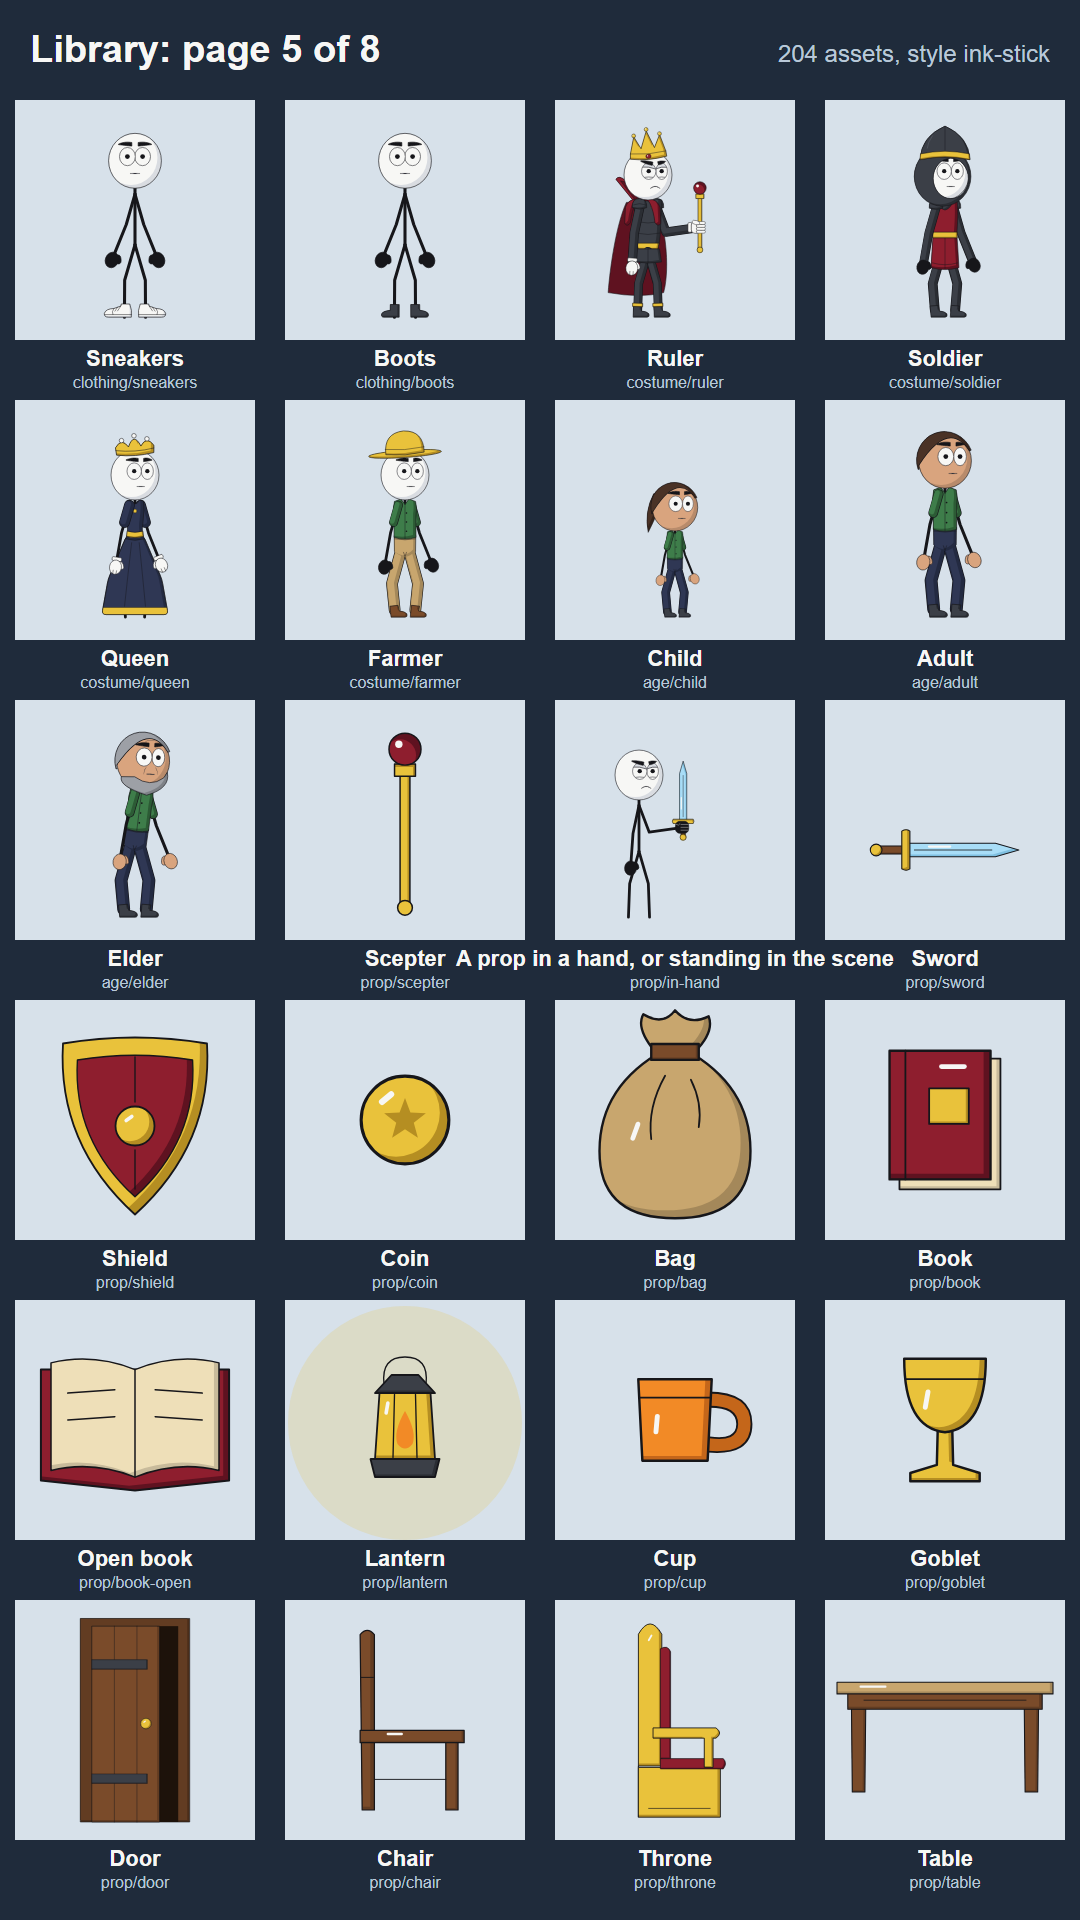
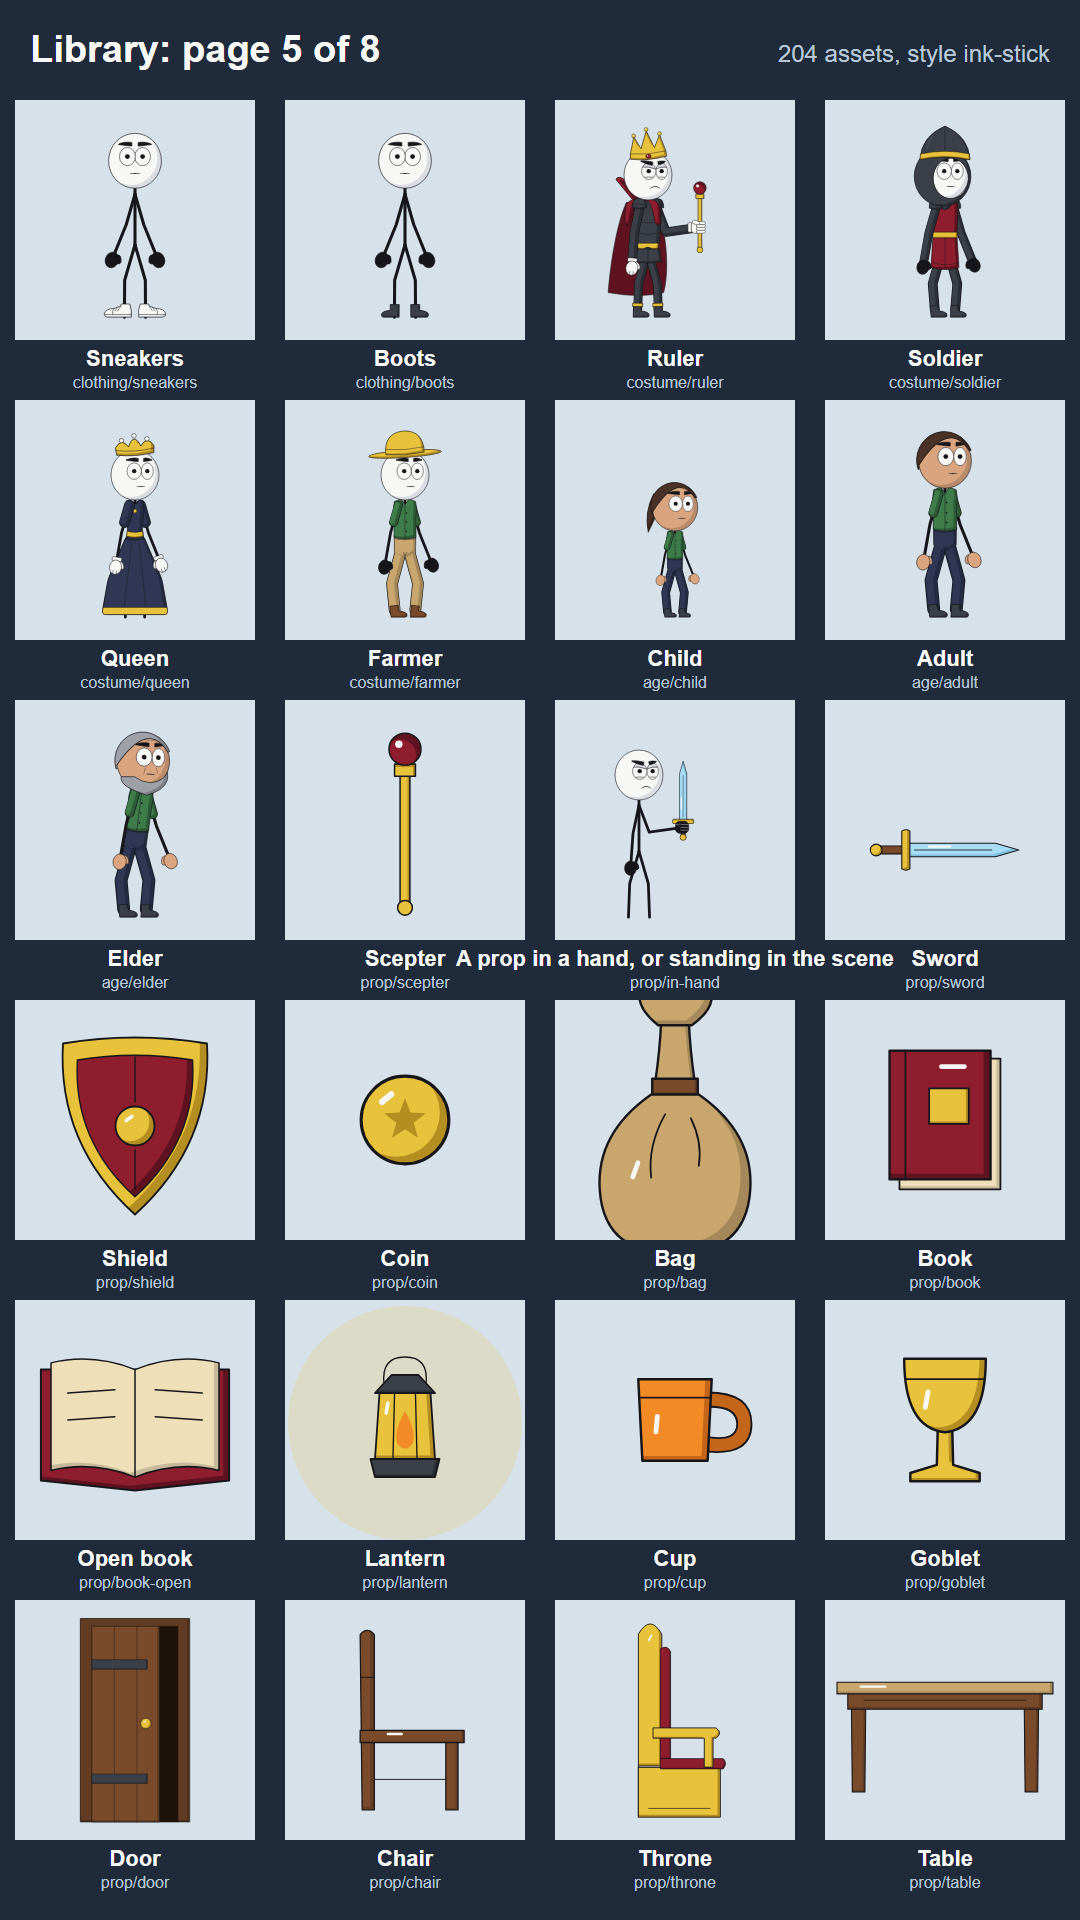
Bag v2: a neck the fist closes round, after Biku's feedback on part 1
The bag's neck was shorter than the fist, so the hand sat in front of the
bag. Longer gathered neck through the fist; sheets, still and catalog
redrawn; part 1 rendered again (v3). Lesson L-0025.

Changed region(s): [[0.55, 0.5, 0.7028, 0.6562]]

diff --git a/engine/src/props/Bag.tsx b/engine/src/props/Bag.tsx
@@ -2,13 +2,17 @@ import { Shaded, lightOffset } from '../wardrobe/Shaded';
 import { Glint, detail, paintOf } from './Hold';
 import type { PropProps } from './Hold';
 
-/** How far the bottom of the bag hangs below its tied neck, in head units. */
-export const BAG_DROP = 0.86;
+/** How far the bottom of the bag hangs below the point it is held by, in head units. */
+export const BAG_DROP = 1.04;
+/** Half the height of the stretch of neck a fist closes round. */
+const GRIP = 0.115;
 
 /**
- * A cloth bag tied at the neck (Style 4): a sack of coins, grain or loot. The tied neck is at
- * the origin and the bag hangs below it. Hold it with InHand how="hang" and a gripping hand,
- * or stand it on the ground with Placed at its bottom (BAG_DROP below the origin).
+ * A cloth bag tied at the neck (Style 4): a sack of coins, grain or loot. The origin is the
+ * middle of its gathered neck, where a hand holds it: the gathered cloth shows above the
+ * fist, the tie and the full bag hang below it, so the hand grips the bag instead of sitting
+ * on it (Biku, 2026-10-06). Hold it with InHand how="hang" and a gripping hand, or stand it
+ * on the ground with Placed at its bottom (BAG_DROP below the origin).
  */
 export function Bag({ uid, shadowSide, paint = 'tan' }: PropProps & { paint?: string }) {
   const cloth = paintOf(paint);
@@ -16,28 +20,36 @@ export function Bag({ uid, shadowSide, paint = 'tan' }: PropProps & { paint?: st
   const off = lightOffset(shadowSide, 0.05);
   return (
     <g>
-      {/* The gathered cloth above the tie. */}
+      {/* The neck: a narrow stretch of gathered cloth, the part a fist closes round. */}
+      <Shaded
+        id={`${uid}-bag-neck`}
+        d={`M -0.07 ${-GRIP - 0.02} L 0.07 ${-GRIP - 0.02} Q 0.075 0 0.1 ${GRIP + 0.06} L -0.1 ${GRIP + 0.06} Q -0.075 0 -0.07 ${-GRIP - 0.02} Z`}
+        {...cloth}
+        offset={lightOffset(shadowSide, 0.02)}
+      />
+      {/* The gathered cloth fanning out above the hand. */}
       <Shaded
         id={`${uid}-bag-top`}
-        d="M -0.1 0.02 Q -0.2 -0.1 -0.16 -0.17 Q -0.06 -0.11 0 -0.19 Q 0.07 -0.11 0.17 -0.16 Q 0.2 -0.08 0.1 0.02 Z"
+        d={`M -0.085 ${-GRIP} Q -0.21 ${-GRIP - 0.1} -0.17 ${-GRIP - 0.19} Q -0.06 ${-GRIP - 0.12} 0 ${-GRIP - 0.21} Q 0.07 ${-GRIP - 0.12} 0.18 ${-GRIP - 0.18} Q 0.21 ${-GRIP - 0.09} 0.085 ${-GRIP} Z`}
         {...cloth}
         offset={lightOffset(shadowSide, 0.03)}
       />
       <Shaded
         id={`${uid}-bag-body`}
-        d={`M -0.09 0.03 Q -0.4 0.22 -0.38 0.56 Q -0.36 ${BAG_DROP} 0 ${BAG_DROP} Q 0.36 ${BAG_DROP} 0.38 0.56 Q 0.4 0.22 0.09 0.03 Z`}
+        d={`M -0.09 ${GRIP + 0.1} Q -0.4 ${GRIP + 0.3} -0.38 ${GRIP + 0.6} Q -0.36 ${BAG_DROP} 0 ${BAG_DROP} Q 0.36 ${BAG_DROP} 0.38 ${GRIP + 0.6} Q 0.4 ${GRIP + 0.3} 0.09 ${GRIP + 0.1} Z`}
         {...cloth}
         offset={off}
       />
+      {/* The tie, just below where the hand holds. */}
       <Shaded
         id={`${uid}-bag-tie`}
-        d="M -0.12 -0.02 L 0.12 -0.02 L 0.12 0.06 L -0.12 0.06 Z"
+        d={`M -0.115 ${GRIP + 0.04} L 0.115 ${GRIP + 0.04} L 0.115 ${GRIP + 0.12} L -0.115 ${GRIP + 0.12} Z`}
         {...tie}
         offset={lightOffset(shadowSide, 0.015)}
       />
-      {detail('M -0.05 0.14 Q -0.14 0.3 -0.12 0.46')}
-      {detail('M 0.08 0.16 Q 0.14 0.28 0.12 0.4')}
-      <Glint x={-0.2} y={0.42} length={0.1} turn={-70} />
+      {detail(`M -0.05 ${GRIP + 0.22} Q -0.14 ${GRIP + 0.38} -0.12 ${GRIP + 0.54}`)}
+      {detail(`M 0.08 ${GRIP + 0.24} Q 0.14 ${GRIP + 0.36} 0.12 ${GRIP + 0.48}`)}
+      <Glint x={-0.2} y={GRIP + 0.5} length={0.1} turn={-70} />
     </g>
   );
 }

diff --git a/BUILD-STATUS.md b/BUILD-STATUS.md
@@ -1,7 +1,7 @@
 # Build Status
 
 **Current phase:** Phase 4 (the full pipeline), steps 4A (foundation), 4B (script), 4C (shot planner) and 4D (assembly) done (2026-10-06). Phases 0 to 3 are complete. Next step is 4E (self-check), started only when Biku asks. Checkpoint 1 questions 2, 4 and 5 are still open.
-**Next:** Biku watches part 1 of the sample story, built automatically from the plan: `runs/2026-10-06-honest-farmer/part-1/out/honest-farmer-part-1-16x9-v2.mp4` (42 seconds, wide, with voices, music, effects and captions). He says what to change, or "continue" for part 2 (its voice, sound and stills are made; its video is not rendered, by his rule that the next part waits for his word), or "start 4E". Before the test video in 4G he needs to give: a script, a name for his page, and his pick of voices.
+**Next:** Biku watches part 1 of the sample story, built automatically from the plan: `runs/2026-10-06-honest-farmer/part-1/out/honest-farmer-part-1-16x9-v3.mp4` (42 seconds, wide, with voices, music, effects and captions). He says what to change, or "continue" for part 2 (its voice, sound and stills are made; its video is not rendered, by his rule that the next part waits for his word), or "start 4E". Before the test video in 4G he needs to give: a script, a name for his page, and his pick of voices.
 **Decided for Phase 4 (Biku, 2026-10-06):** his videos will be about 2 to 3 minutes. Biku proposed making them as parts of at most 1 minute from one script and combining them at the end. Agreed, with the studio doing the joining: one script is split into chapters of up to a minute at natural story breaks, each chapter is built and checked alone (so each fits the run budget and can be redone alone), then the chapters are joined into one final video in every size with one captions file; the chapters are kept too. Phase 4 must make the joins invisible: saved characters reused in every chapter, one voice and one loudness, music planned over the whole script so cuts fall on a pause or a mood change, the title only on the first chapter and the closing card only on the last. (The plan's 30-minute run budget then applies to a chapter, not to the whole video; this is Claude's reading and should be confirmed with Biku when Phase 4 starts.)
 **Also decided (Biku, 2026-10-06):** in a video made in parts, the studio stops after each part of about a minute and shows it; it goes on to the next part only when Biku says so ("so that its better than making all the video at once"). So a chapter is a checkpoint: no later chapter, no extra size and no joined video is rendered ahead of his go. Agreed by Biku the same day ("thats fine"): each chapter is shown in the phone size only, and the other two sizes and the joined video are made once every chapter is approved.
 **Last updated:** 2026-10-06
@@ -42,6 +42,10 @@ Asked by Biku ("start 4D"). A storyboard now becomes a video with no hand work: 
 ### What was wrong on the way, and found only by looking
 
 Lessons L-0023 and L-0024. Walking figures floated because their travel was taken off the body but not the planted feet. The title sat on the face. Captions sized for a tall frame covered the middle of a wide one. The walker slid backward when the camera travelled. Closer shots cut off the bag on the ground, the coin in the hand, and a standing person beside a lying one. A chair faced the wrong way. An unrelated one-sample slip in the held music tone stopped the mix.
+
+### Feedback on part 1 (2026-10-06)
+
+1. **"It's not being caught nicely, the hand is in front of the bag."** The bag's neck was shorter than the fist, so the fist covered it and sat on the bag. The bag now has a longer gathered neck that runs through the fist: cloth above the hand, the tie and the bag below (`engine/src/props/Bag.tsx`, version 2). Part 1 was rendered again as v3. Lesson L-0025.
 
 ### Open after 4D
 

diff --git a/knowledge/playbooks/styles/ink-stick.md b/knowledge/playbooks/styles/ink-stick.md
@@ -27,6 +27,7 @@ Current best practice for the Ink Stick look, learned from real videos and Biku'
 - **The body agrees with the head.** When a costumed character is turned three-quarter, the arm on the side they face is the far arm and comes out from behind the chest; the other arm is the near one and hangs in front of the chest. Seen from the front, both arms hang beside the chest. The engine does this by view (`engine/src/rig/layers.ts`); check it on every new costume. (L-0008, Biku)
 - **No arm bends backward.** A resting arm hangs a little behind the body and bends forward at the elbow. An arm that holds something out reaches forward with the elbow ahead of the shoulder, like the king's sword arm in Reference A, never folded back against the body. (L-0008, Biku)
 - **A holding hand is a closed fist.** The fingers are fat bands that cover the handle; it shows only above and below the fist, with the thumb across the top. (L-0008, Biku)
+- **A held thing runs through the fist.** The part the hand closes round (a handle, a bag's neck, a stem) is narrower than the fist, and the thing shows above the fist and below it. A fist sitting in front of a thing looks pasted on. Look at every held prop close up on the `props-in-use` sheet. (L-0025, Biku)
 - **Hands touch what they push, hold or lean on.** Place the thing from the hand positions so it meets them, and make it big enough to reach them: a pushed block must stand taller than the upper hand. Look at the contact in a close-up before calling it done. (L-0014, Biku)
 - **Shoes follow the leg.** The upper part of a shoe leans with the shin and the leg goes down into it; a heel lifts when the leg leans far forward. The engine does this (`Footwear.tsx`); after any new leg pose, look at the feet close up on the `shoes` sheet. (L-0015, Biku)
 - **Feet show where the effort comes from.** Pushing drives from behind the hips with the back leg stretched out; pulling braces the feet out in front. Feet bunched under a leaning body look wrong. (L-0014, Biku)

diff --git a/knowledge/lessons-log.md b/knowledge/lessons-log.md
@@ -395,3 +395,21 @@ Applied: npm run make writes a sheet of all the stills of a part (stills/sheet-<
   storyboards in a tall and a wide frame.
 Status: active
 ```
+
+```
+L-0025 | 2026-10-06 | run: 2026-10-06-honest-farmer, part 1 (the wide shot of Tomas with the bag)
+Area: props | Scope: style ink-stick | Source: Biku
+Lesson: A held thing must look gripped, not have a hand sitting in front of it. The part the
+  hand closes round (a neck, a handle, a stem) is narrower than the fist and runs right through
+  it, so the thing shows above the fist and below it.
+Evidence: Biku: "its not being caught nicely the hands is in front of the bag". The bag's neck
+  was shorter than the fist, so the fist covered it whole and sat on the bag's body. The same
+  rule was already written for handles (L-0008: a handle shows only above and below the
+  fist); the bag was drawn without it.
+Applied: engine/src/props/Bag.tsx, version 2: a longer gathered neck with its origin where
+  the hand holds, the cloth fanning out above the fist, the tie and the bag below. Prop
+  sheets, the library still and the catalog redrawn.
+Note (Claude's reading): every new prop that is held gets looked at in a hand, close up, on
+  the props-in-use sheet before it is saved.
+Status: active
+```
